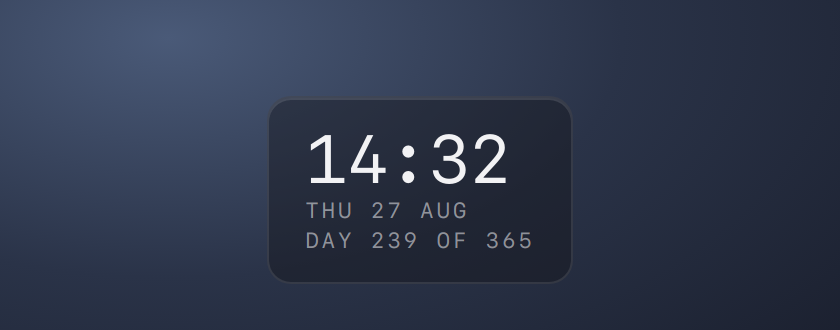
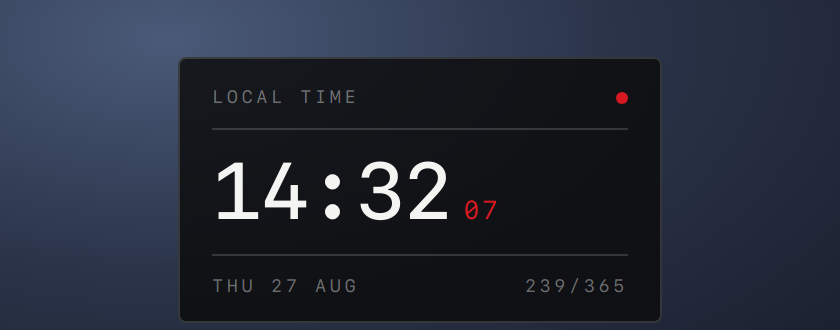
Use US spellings throughout

diff --git a/widgets/clock/index.tsx b/widgets/clock/index.tsx
@@ -1,21 +1,20 @@
 /*
  * Clock
  *
- * The template every other widget in this repository started from: one shell
- * command, one styled component, one render.
+ * Minimalist: monochrome with one red, monospace at every size, hairlines
+ * instead of shadows, and labels that read like markings on a case rather than
+ * words on a page.
  *
  * Copyright (c) 2026 Kevin Chen. MIT licensed.
  */
 
 import { styled } from "gailan";
 
-/* `date` is in every shell, so this needs nothing installed. The separator makes
-   one command return three fields without three commands. */
-export const command = "date '+%H:%M|%a %d %b|%j'";
+/* One command, three fields. The separator saves running `date` three times. */
+export const command = "date '+%H:%M|%S|%a %d %b|%j'";
 
-/* A clock only has to be right to the minute, so once a second is waste. Ten
-   seconds is close enough that it never looks stale. */
-export const refreshFrequency = 10000;
+/* Seconds are shown, so this has to tick like one. */
+export const refreshFrequency = 1000;
 
 export const className = `
   left: 24px;
@@ -23,37 +22,89 @@ export const className = `
 `;
 
 const Panel = styled("div")`
-  --ink: #f2f2f4;
-  --dim: rgba(242, 242, 244, 0.55);
+  --ink: #f4f4f2;
+  --dim: rgba(244, 244, 242, 0.42);
+  --rule: rgba(244, 244, 242, 0.16);
+  --red: #d71921;
 
   @media (prefers-color-scheme: light) {
-    --ink: #16161a;
-    --dim: rgba(22, 22, 26, 0.55);
+    --ink: #0b0b0c;
+    --dim: rgba(11, 11, 12, 0.45);
+    --rule: rgba(11, 11, 12, 0.18);
   }
 
-  display: inline-flex;
-  flex-direction: column;
-  gap: 2px;
-  padding: 14px 18px;
-  border-radius: 12px;
-  background: rgba(20, 20, 26, 0.42);
-  border: 1px solid rgba(255, 255, 255, 0.1);
-  box-shadow: inset 0 1px 0 rgba(255, 255, 255, 0.12);
+  position: relative;
+  display: inline-block;
+  min-width: 208px;
+  padding: 14px 16px 12px;
+  /* flat, not glassy: the surface does not pretend to be lit */
+  background: rgba(11, 11, 12, 0.82);
+  border: 1px solid var(--rule);
+  border-radius: 4px;
   color: var(--ink);
   font-family: "SF Mono", ui-monospace, Menlo, monospace;
+
+  @media (prefers-color-scheme: light) {
+    background: rgba(244, 244, 242, 0.86);
+  }
+`;
+
+/* The row of markings across the top, which is what makes the panel read as an
+   instrument before you have read a single word. */
+const Marks = styled("div")`
+  display: flex;
+  align-items: center;
+  justify-content: space-between;
+  padding-bottom: 10px;
+  margin-bottom: 12px;
+  border-bottom: 1px solid var(--rule);
+`;
+
+const Mark = styled("div")`
+  font-size: 9px;
+  letter-spacing: 0.2em;
+  text-transform: uppercase;
+  color: var(--dim);
+`;
+
+const Dot = styled("div")`
+  width: 6px;
+  height: 6px;
+  border-radius: 50%;
+  background: var(--red);
+`;
+
+const Readout = styled("div")`
+  display: flex;
+  align-items: baseline;
+  gap: 6px;
 `;
 
 const Time = styled("div")`
-  font-size: 34px;
-  line-height: 1;
-  letter-spacing: -0.5px;
-  /* digits keep their column, so the width does not jitter every minute */
+  font-size: 40px;
+  line-height: 0.95;
+  letter-spacing: -0.02em;
+  font-weight: 500;
+  /* digits keep their column so the panel never twitches */
   font-variant-numeric: tabular-nums;
 `;
 
-const Line = styled("div")`
-  font-size: 11px;
-  letter-spacing: 1.4px;
+const Seconds = styled("div")`
+  font-size: 13px;
+  letter-spacing: 0.08em;
+  color: var(--red);
+  font-variant-numeric: tabular-nums;
+`;
+
+const Footer = styled("div")`
+  display: flex;
+  justify-content: space-between;
+  gap: 12px;
+  margin-top: 12px;
+  padding-top: 10px;
+  border-top: 1px solid var(--rule);
+  font-size: 9px;
+  letter-spacing: 0.2em;
   text-transform: uppercase;
   color: var(--dim);
 `;
@@ -61,15 +112,39 @@ const Line = styled("div")`
 type State = { output: string; error?: string };
 
 export const render = ({ output, error }: State) => {
-  if (error) return <Panel><Line>clock unavailable</Line></Panel>;
+  if (error) {
+    return (
+      <Panel>
+        <Marks>
+          <Mark>clock</Mark>
+          <Dot />
+        </Marks>
+        <Mark>unavailable</Mark>
+      </Panel>
+    );
+  }
 
-  const [time, date, dayOfYear] = output.trim().split("|");
+  const [time, seconds, date, dayOfYear] = output.trim().split("|");
+  const day = Number(dayOfYear);
 
   return (
-    <Panel>
-      <Time>{time}</Time>
-      <Line>{date}</Line>
-      <Line>day {Number(dayOfYear)} of 365</Line>
+    <Panel data-gailan-desktop-glass={4}>
+      <Marks>
+        <Mark>local time</Mark>
+        <Dot />
+      </Marks>
+
+      <Readout>
+        <Time>{time}</Time>
+        <Seconds>{seconds}</Seconds>
+      </Readout>
+
+      <Footer>
+        <span>{date}</span>
+        <span>
+          {String(day).padStart(3, "0")}/365
+        </span>
+      </Footer>
     </Panel>
   );
 };

diff --git a/CONTRIBUTING.md b/CONTRIBUTING.md
@@ -73,7 +73,7 @@ as you like.
   to split.
 - Editing someone else's widget is welcome, but say why in the description, and
   expect the original author to be asked.
-- Bumping `version` is only needed when behaviour changes, not for a typo.
+- Bumping `version` is only needed when behavior changes, not for a typo.
 - Screenshots go in the folder as `preview.png`, not pasted into the description.
   Crop to the widget, take it at 2x, and keep it under 500KB.
 

diff --git a/README.md b/README.md
@@ -71,5 +71,5 @@ compile does not land.
 [CONTRIBUTING.md](CONTRIBUTING.md) has the details, including what review looks
 at and why a widget might be sent back.
 
-Widgets keep whatever licence their author chooses, declared in the manifest. The
+Widgets keep whatever license their author chooses, declared in the manifest. The
 repository itself is GPL-3.0, matching Gailan.

diff --git a/widgets/clock/README.md b/widgets/clock/README.md
@@ -15,6 +15,6 @@ Move it by editing `className` in `index.tsx`. `refreshFrequency` is ten seconds
 which is enough for a clock that only shows minutes; lower it and you are asking
 your Mac to redraw for nothing.
 
-## Licence
+## License
 
 MIT, © 2026 Kevin Chen.
